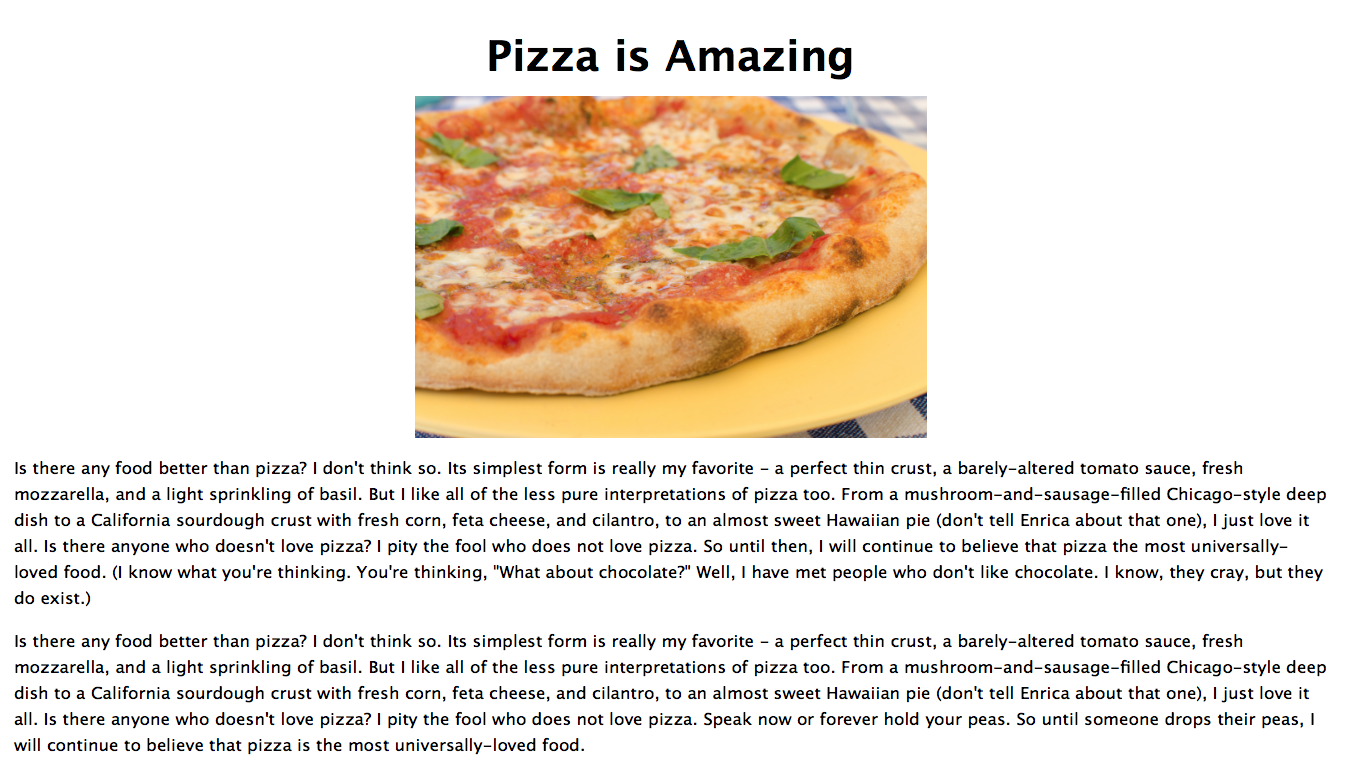
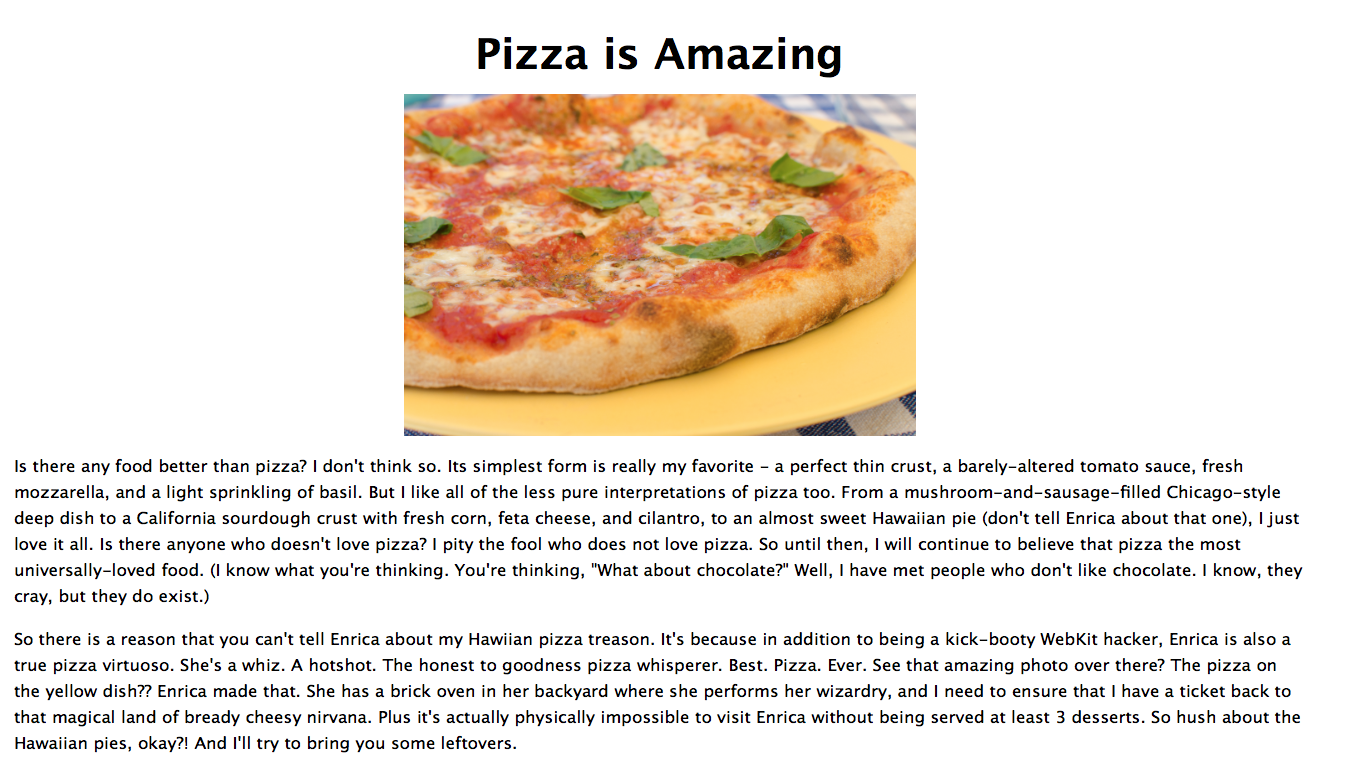
Just updating the sample code for this potential blog post.
* blog-files/regions/pizza-is-amazing.png: Replaced.
* blog-files/regions/unstyled-article.png: Replaced.
* demos/regions/pizza-regions-manifesto-regionstyling.html:
* demos/regions/pizza-regions-manifesto.html:

Identifier: 141596@main
git-svn-id: https://svn.webkit.org/repository/webkit/trunk@158228 268f45cc-cd09-0410-ab3c-d52691b4dbfc

Changed region(s): [[0.0, 0.0306, 0.9868, 0.9796]]

diff --git a/Websites/webkit.org/demos/regions/pizza-regions-manifesto-regionstyling.html b/Websites/webkit.org/demos/regions/pizza-regions-manifesto-regionstyling.html
@@ -99,13 +99,13 @@
       But I like all of the less pure interpretations of pizza too. From a mushroom-and-sausage-filled
       Chicago-style deep dish to a California sourdough crust with fresh corn, feta cheese, and cilantro,
       to an almost sweet Hawaiian pie <span class="">(don't tell Enrica about that one),</span> I just love it all. Is there anyone who doesn't love pizza? I pity the fool who does not love pizza. So until then, I will continue to believe that pizza the most universally-loved food. (I know what you're thinking. You're thinking, "What about chocolate?" Well, I have met people who don't like chocolate. I know, they cray, but they do exist.)</p>
-    <p>Is there any food better than pizza? I don't think so. Its simplest form is really my favorite -
-      a perfect thin crust, a barely-altered tomato sauce, fresh mozzarella, and a light sprinkling of basil.
-      But I like all of the less pure interpretations of pizza too. From a mushroom-and-sausage-filled
-      Chicago-style deep dish to a California sourdough crust with fresh corn, feta cheese, and cilantro,
-      to an almost sweet Hawaiian pie (don't tell Enrica about that one), I just love it all. Is there anyone
-      who doesn't love pizza? I pity the fool who does not love pizza. Speak now or forever hold your peas. So until
-      someone drops their peas, I will continue to believe that pizza is the most universally-loved food.</p>
+    <p>So there is a reason that you can't tell Enrica about my Hawiian pizza treason. It's because
+    in addition to being a kick-booty WebKit hacker, Enrica is also a true pizza virtuoso. She's a whiz.
+    A hotshot. The honest to goodness pizza whisperer. Best. Pizza. Ever. See that amazing photo over there?
+    The pizza on the yellow dish?? Enrica made that. She has a brick oven in her backyard where she performs
+    her wizardry, and I need to ensure that I have a ticket back to that magical land of bready cheesy nirvana.
+    Plus it's actually physically impossible to visit Enrica without being served at least 3 desserts.
+    So hush about the Hawaiian pies, okay?! And I'll try to bring you some leftovers.</p>
   </div>
   
   <!-- Layout of the page using regions displaying content from different named flows -->

diff --git a/Websites/webkit.org/demos/regions/pizza-regions-manifesto.html b/Websites/webkit.org/demos/regions/pizza-regions-manifesto.html
@@ -86,13 +86,13 @@
       But I like all of the less pure interpretations of pizza too. From a mushroom-and-sausage-filled
       Chicago-style deep dish to a California sourdough crust with fresh corn, feta cheese, and cilantro,
       to an almost sweet Hawaiian pie <span class="">(don't tell Enrica about that one),</span> I just love it all. Is there anyone who doesn't love pizza? I pity the fool who does not love pizza. So until then, I will continue to believe that pizza the most universally-loved food. (I know what you're thinking. You're thinking, "What about chocolate?" Well, I have met people who don't like chocolate. I know, they cray, but they do exist.)</p>
-    <p>Is there any food better than pizza? I don't think so. Its simplest form is really my favorite -
-      a perfect thin crust, a barely-altered tomato sauce, fresh mozzarella, and a light sprinkling of basil.
-      But I like all of the less pure interpretations of pizza too. From a mushroom-and-sausage-filled
-      Chicago-style deep dish to a California sourdough crust with fresh corn, feta cheese, and cilantro,
-      to an almost sweet Hawaiian pie (don't tell Enrica about that one), I just love it all. Is there anyone
-      who doesn't love pizza? I pity the fool who does not love pizza. Speak now or forever hold your peas. So until
-      someone drops their peas, I will continue to believe that pizza is the most universally-loved food.</p>
+    <p>So there is a reason that you can't tell Enrica about my Hawiian pizza treason. It's because
+    in addition to being a kick-booty WebKit hacker, Enrica is also a true pizza virtuoso. She's a whiz.
+    A hotshot. The honest to goodness pizza whisperer. Best. Pizza. Ever. See that amazing photo over there?
+    The pizza on the yellow dish?? Enrica made that. She has a brick oven in her backyard where she performs
+    her wizardry, and I need to ensure that I have a ticket back to that magical land of bready cheesy nirvana.
+    Plus it's actually physically impossible to visit Enrica without being served at least 3 desserts.
+    So hush about the Hawaiian pies, okay?! And I'll try to bring you some leftovers.</p>
   </div>
   
   <!-- Layout of the page using regions displaying content from different named flows -->
